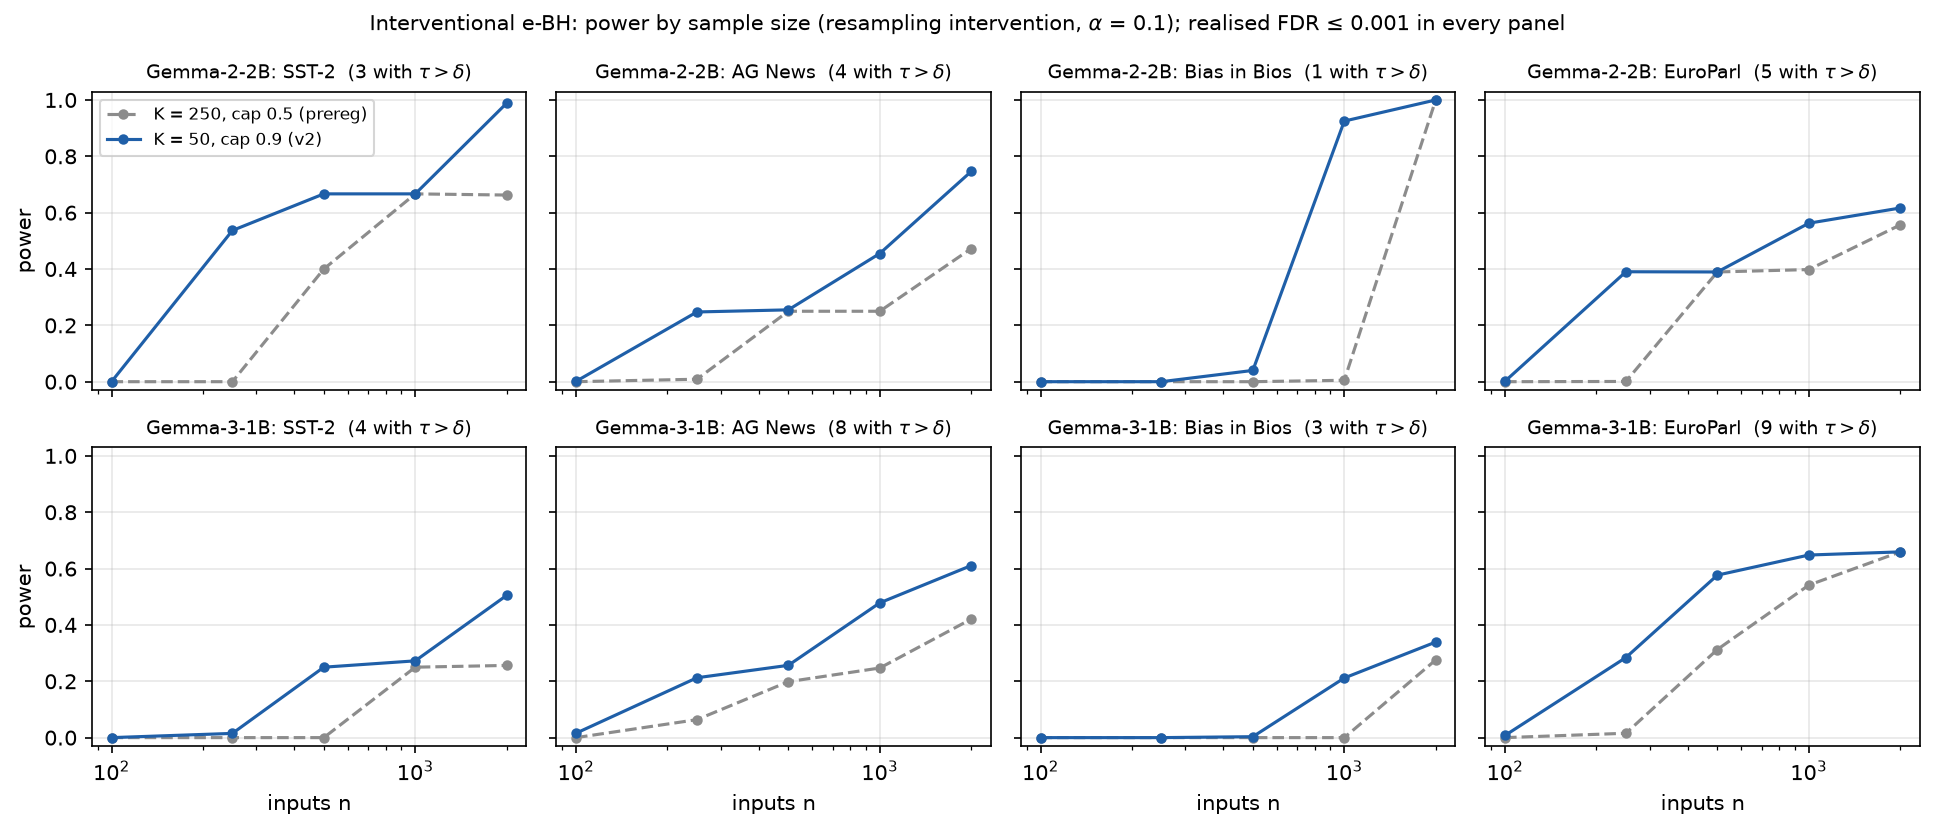
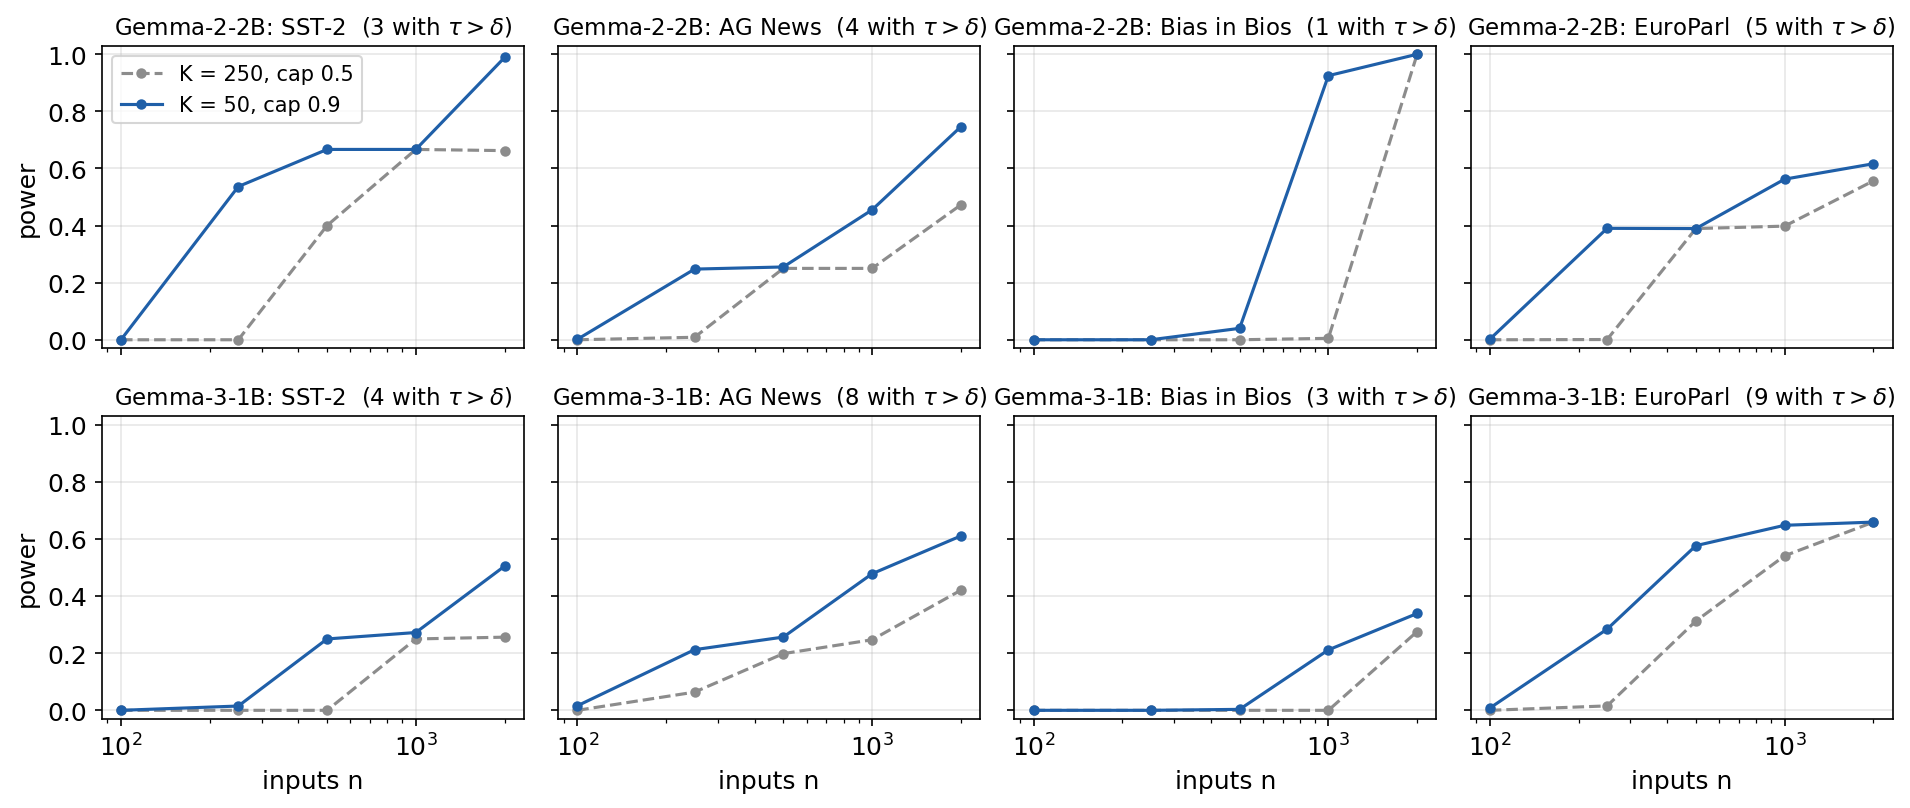
Final report: fix deep sampler claim; drop internal labels from Stage 5 figures

diff --git a/src/stage5_figures.py b/src/stage5_figures.py
@@ -24,7 +24,7 @@ OUT = ROOT / "results" / "figures"
 MODELS = {"Gemma-2-2B": ROOT / "results" / "stage5", "Gemma-3-1B": ROOT / "results" / "models" / "gemma3_1b" / "stage5"}
 TASKS = {"sst2": "SST-2", "ag_news": "AG News", "bias_in_bios": "Bias in Bios", "europarl": "EuroParl"}
 A = "0.1"
-SPEC = {"prereg": ("K = 250, cap 0.5 (prereg)", "#8c8c8c", "--"), "v2": ("K = 50, cap 0.9 (v2)", "#1f5fa8", "-")}
+SPEC = {"prereg": ("K = 250, cap 0.5", "#8c8c8c", "--"), "v2": ("K = 50, cap 0.9", "#1f5fa8", "-")}
 
 
 def load(base: Path, task: str, name: str):
@@ -53,7 +53,7 @@ def fig_power():
                 n, pw = curve(rs[sp]["primary"], "power")
                 ax.plot(n, pw, ls, color=col, marker="o", ms=4, label=lab)
             ntrue = ev["interventions"]["resample"]["counts"]["tau_above_delta"]
-            ax.set_title(f"{m}: {tl}  ({ntrue} with $\\tau>\\delta$)", fontsize=9)
+            ax.set_title(f"{m}: {tl}  ({ntrue} with $\\tau>\\delta$)", fontsize=11)
             ax.set_xscale("log")
             ax.set_ylim(-0.03, 1.03)
             ax.grid(alpha=0.3)
@@ -61,9 +61,7 @@ def fig_power():
                 ax.set_ylabel("power")
             if r == 1:
                 ax.set_xlabel("inputs n")
-    axes[0, 0].legend(fontsize=8, loc="upper left")
-    fig.suptitle("Interventional e-BH: power by sample size (resampling intervention, $\\alpha$ = 0.1); "
-                 "realised FDR ≤ 0.001 in every panel", fontsize=10)
+    axes[0, 0].legend(fontsize=10, loc="upper left")
     fig.tight_layout()
     fig.savefig(OUT / "fig20_stage5_power.png", dpi=150, bbox_inches="tight")
     plt.close(fig)
@@ -91,8 +89,6 @@ def fig_zero_null():
     axes[0].set_ylabel("FDR against $\\tau_j > \\delta$")
     axes[0].plot([], [], ":", color="k", marker="s", ms=3, label="ours ($H_j: \\tau_j \\leq \\delta$), all tasks")
     axes[0].legend(fontsize=7, loc="upper left")
-    fig.suptitle("A zero-effect null certifies negligible effects as data grow (v2 specification, $\\alpha$ = 0.1)",
-                 fontsize=10)
     fig.tight_layout()
     fig.savefig(OUT / "fig21_stage5_zero_null.png", dpi=150, bbox_inches="tight")
     plt.close(fig)
@@ -173,6 +169,9 @@ def tables():
     (OUT / "table_stage5_validity.tex").write_text(
         "\\begin{tabular}{llrrr}\n\\toprule\nModel & Task & Breaches & Max FDR & Max stress $P(\\text{any rejection})$ "
         "\\\\\n\\midrule\n" + "\n".join(rows) + "\n\\bottomrule\n\\end{tabular}\n")
+
+
+plt.rcParams.update({"font.size": 12, "axes.titlesize": 12, "legend.fontsize": 10})
 
 
 def main() -> None:

diff --git a/final_report.tex b/final_report.tex
@@ -705,8 +705,8 @@ $q = 0.1$), possibly because coarsening changes which latents are null. A deep g
 \citep{romano2020deep} can in principle learn what the parametric samplers miss (Table~\ref{tab:samplers}; SST-2
 repairs in Table~\ref{tab:sst2repairs}).
 
-\paragraph{Per-latent diagnostics mislead.} The residual deep sampler is the best on single-latent swaps (AUC$_1$) and
-matches the zero atom, yet it is the worst on FDR, with a null coin of 0.59--0.63 even in linear cells
+\paragraph{Per-latent diagnostics mislead.} The residual deep sampler beats both Gaussian samplers on single-latent swaps (AUC$_1$) and
+matches the zero atom, yet it has the worst FDR, with a null coin of 0.59--0.63 even in linear cells
 (Gaussian: 0.49). It gave up the exact covariance match. A \emph{second-order-exact} version, whose knockoffs match the covariance exactly, restores it, but its learned part is
 about 1\% of the noise and it behaves like block MVR. FDR is a joint property of 2,048 dependent latents,
 and no sampler we built can be certified jointly.

diff --git a/docs/planning/final_story.md b/docs/planning/final_story.md
@@ -218,7 +218,7 @@ all 16k. Precision ("0% of picks matter") has no such caveat.
 pool knockoffs choose from (SST-2 1/3, AG News 2/4, Bias in Bios 1/1, EuroParl 4/5). Knockoffs pick none of those 8 at
 q = 0.1, so the miss is not caused by the pool. The other 5 on Gemma-2 fire too rarely to enter the pool, a second,
 independent limit of observational selection on the most frequently firing latents; attribution screening sees all
-16k. **Gemma-3 (team's run): 17 of 20 in the pool; both models: 25 of 33.**
+16k. **Gemma-3 (`pool_coverage.json`): 17 of 20 in the pool; both models: 25 of 33.**
 
 ---
 
